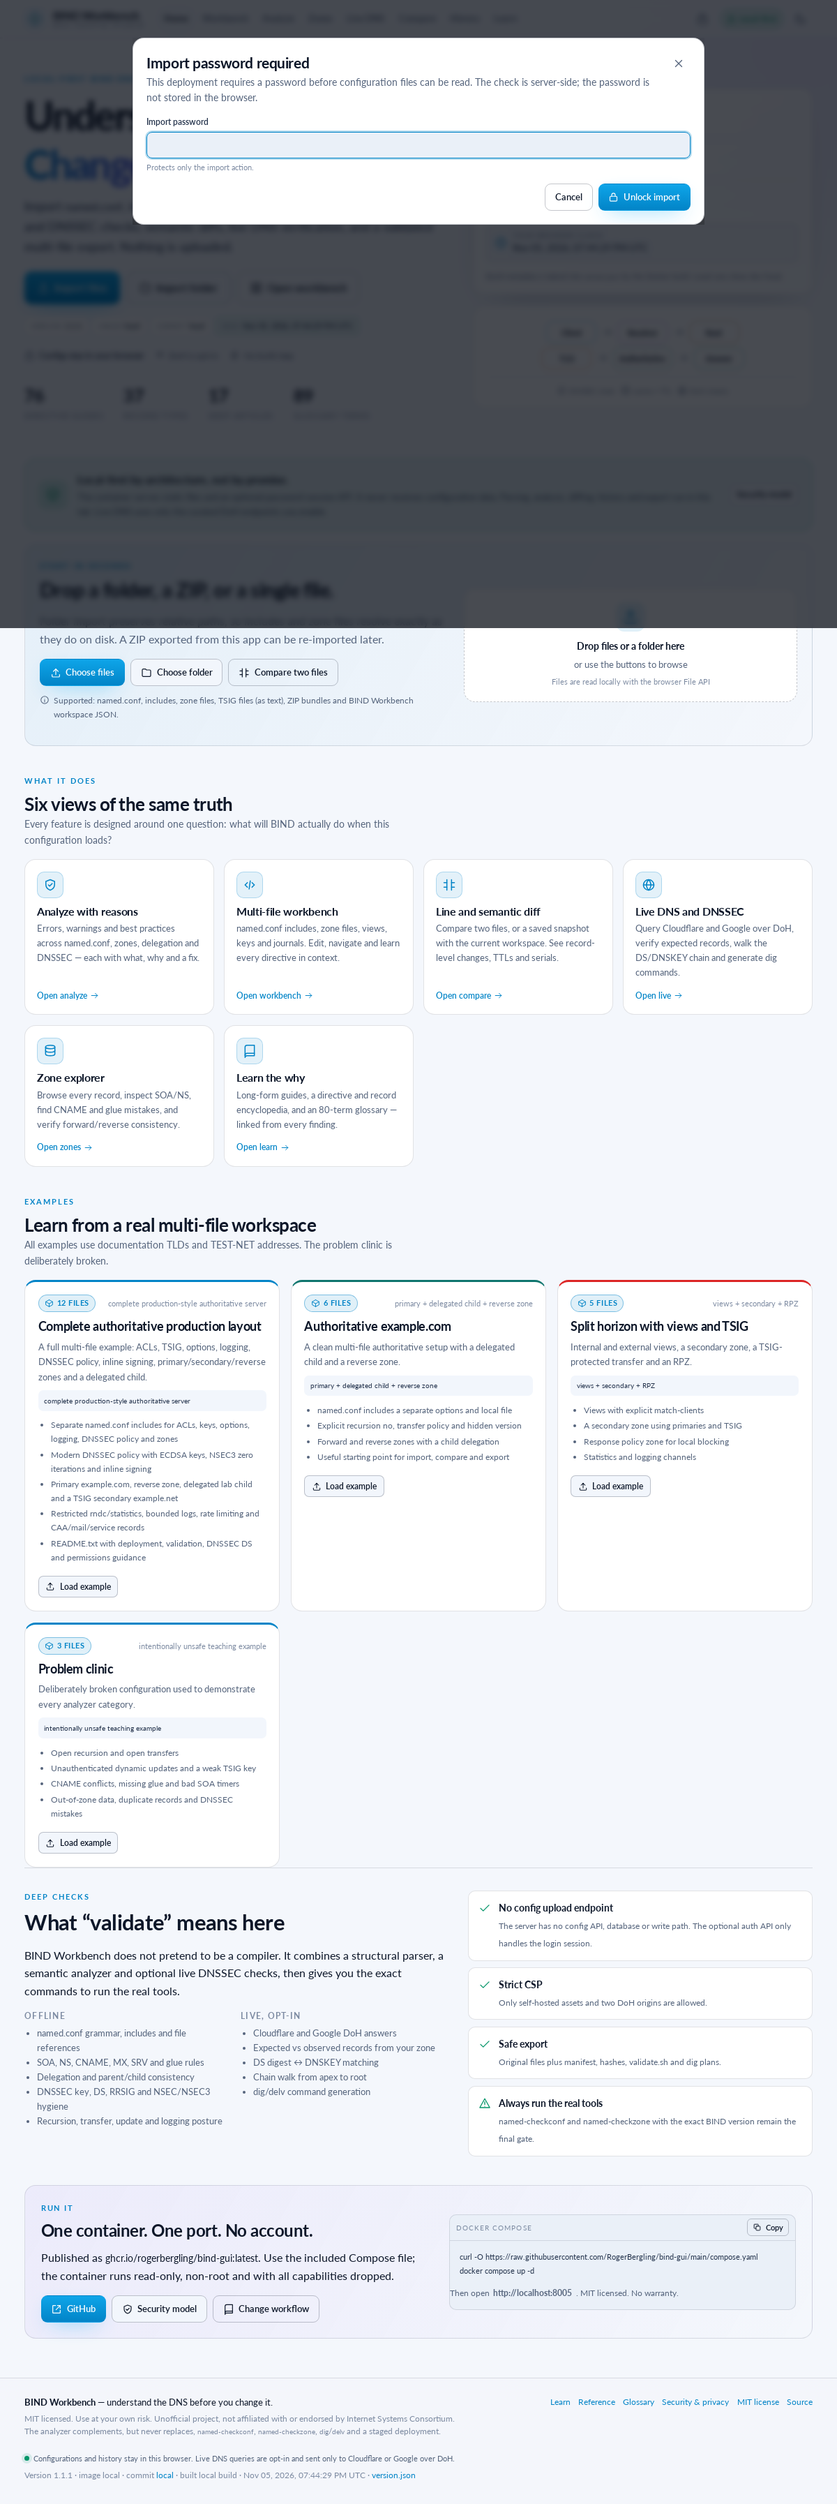
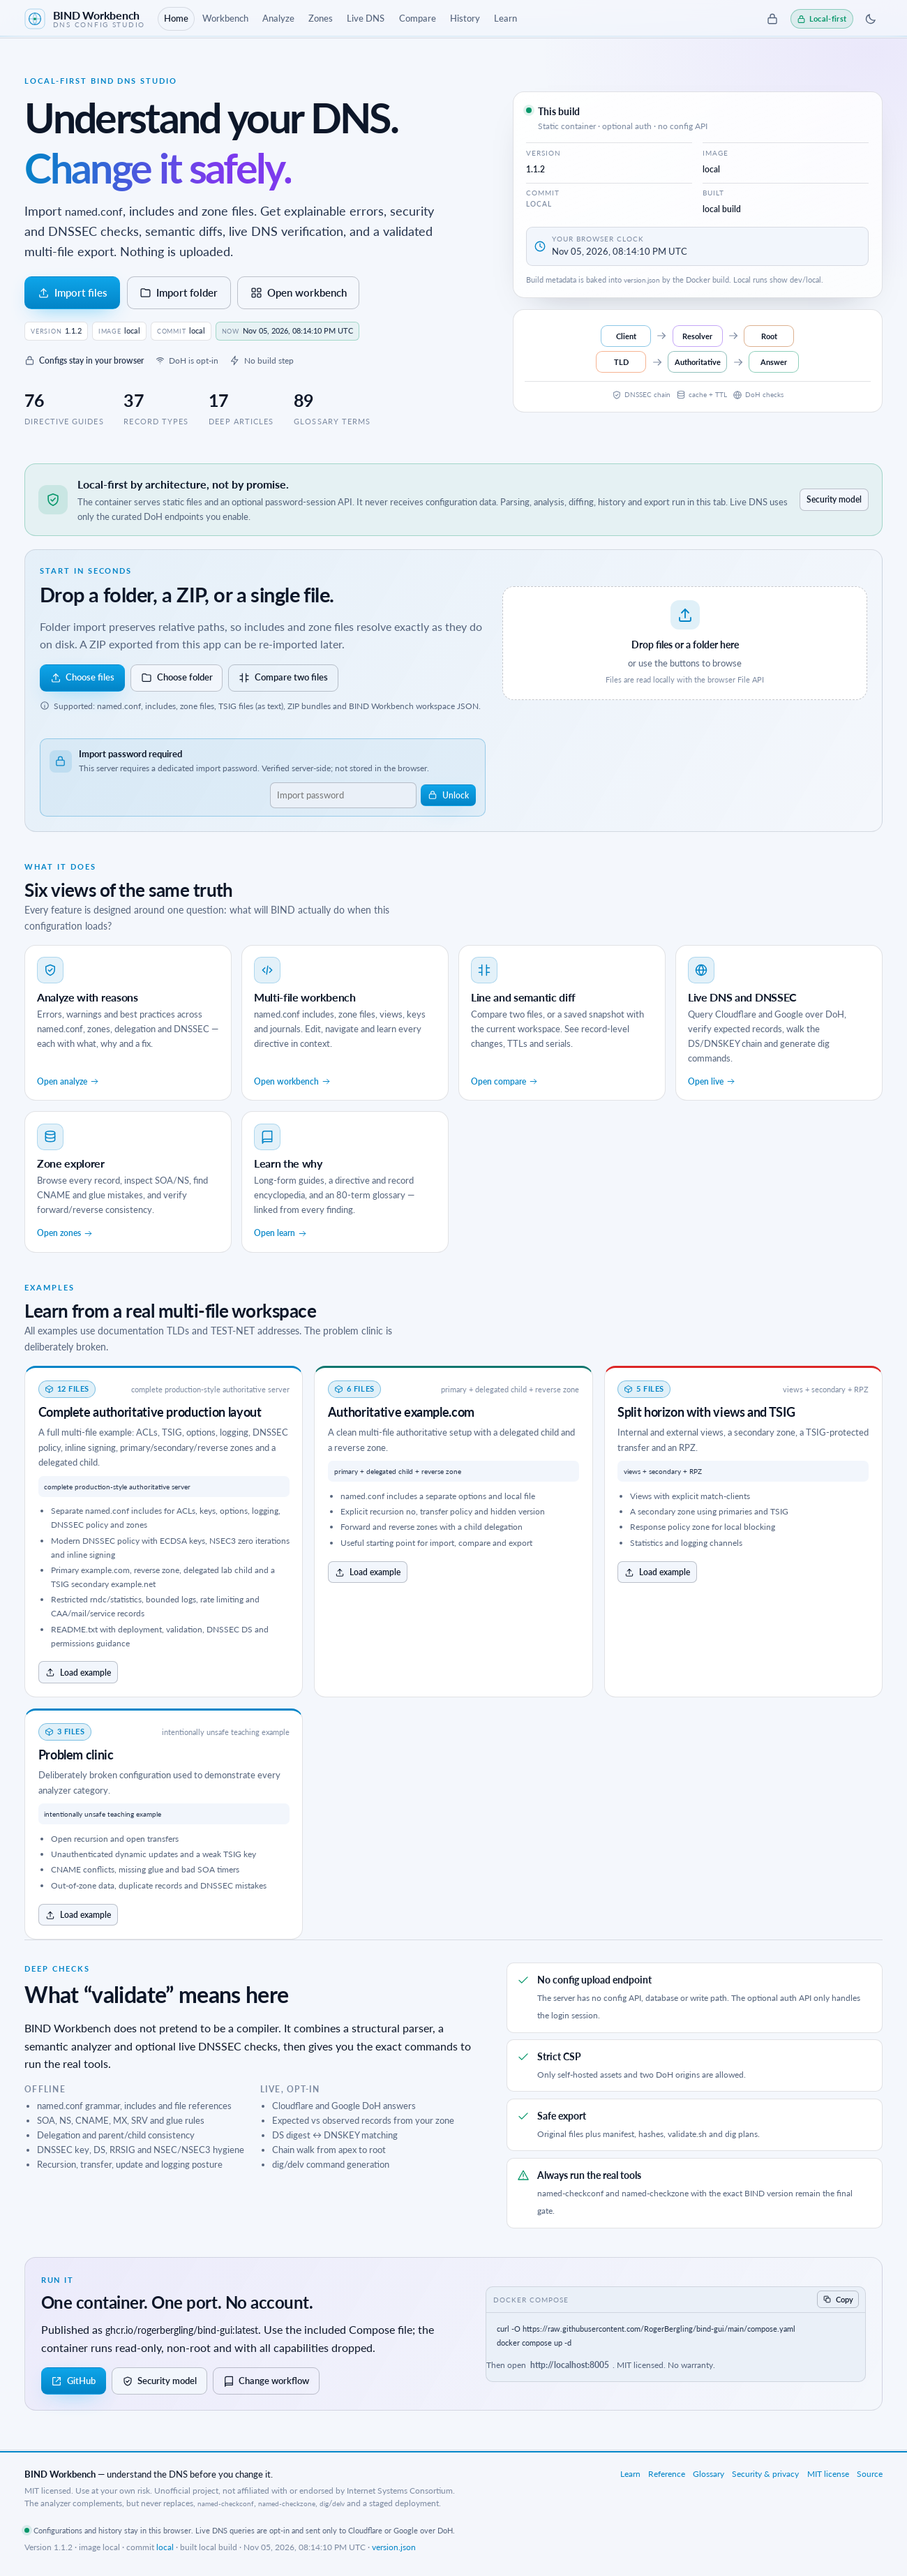
Show inline import password before file selection
Render the server-verified import password field directly on the Home, Workbench, Analyze, Zones and Compare import surfaces. Block file/folder/dropzone pickers until the tab is unlocked, keep the dialog as a fallback, show an unlocked state, and bump the release to 1.1.2.

diff --git a/public/assets/js/pages/import-ui.js b/public/assets/js/pages/import-ui.js
@@ -11,6 +11,7 @@ const UPLOAD_UNLOCK_KEY = 'bind-workbench:upload-unlocked';
 let uploadStatusPromise = null;
 let uploadUnlockPromise = null;
 let uploadUnlockedThisPage = false;
+let uploadAuthRequired = false;
 
 export async function getUploadStatus() {
   if (!uploadStatusPromise) {
@@ -45,6 +46,114 @@ export function clearUploadUnlock() {
     sessionStorage.removeItem(UPLOAD_UNLOCK_KEY);
   } catch {
     /* ignore */
+  }
+}
+
+async function verifyUploadPassword(password) {
+  try {
+    const response = await fetch('/api/upload-auth', {
+      method: 'POST',
+      credentials: 'same-origin',
+      cache: 'no-store',
+      headers: { 'X-Bind-Upload-Password': password },
+    });
+    let data = {};
+    try {
+      data = await response.json();
+    } catch {
+      /* keep the status-code message */
+    }
+    if (response.ok && data.ok) return { ok: true };
+    if (response.status === 429) return { ok: false, error: 'Too many attempts. Wait a minute and try again.' };
+    if (response.status === 401) return { ok: false, error: 'Invalid import password.' };
+    return { ok: false, error: data.error || `Import unlock failed (HTTP ${response.status}).` };
+  } catch {
+    return { ok: false, error: 'Could not reach the server to verify the import password.' };
+  }
+}
+
+function uploadGatePanel(status) {
+  if (hasUploadUnlock()) {
+    return `<div class="upload-gate-panel unlocked">
+      <div class="upload-gate-icon">${icon('check', 17)}</div>
+      <div class="upload-gate-copy"><strong>Import unlocked for this tab</strong><span>The password was verified. Lock the session or close the tab to require it again.</span></div>
+    </div>`;
+  }
+  return `<div class="upload-gate-panel">
+    <div class="upload-gate-icon">${icon('lock', 17)}</div>
+    <div class="upload-gate-copy">
+      <strong>Import password required</strong>
+      <span>${status.separatePassword ? 'This server requires a dedicated import password.' : 'This server uses the app password for the import check.'} Verified server-side; not stored in the browser.</span>
+    </div>
+    <div class="upload-gate-control">
+      <input class="upload-gate-input" type="password" autocomplete="current-password" spellcheck="false" placeholder="Import password" aria-label="Import password">
+      <button class="btn btn-primary btn-sm" type="button" data-upload-unlock>${icon('lock', 14)} Unlock</button>
+    </div>
+    <div class="upload-gate-error" role="alert" hidden></div>
+  </div>`;
+}
+
+function refreshUploadGatePanels() {
+  for (const panel of document.querySelectorAll('[data-upload-gate]')) {
+    if (!panel.dataset.required || panel.dataset.required !== 'true') continue;
+    panel.innerHTML = uploadGatePanel(JSON.parse(panel.dataset.gateStatus || '{}'));
+    wireUploadGatePanel(panel);
+  }
+}
+
+function wireUploadGatePanel(panel) {
+  const input = panel.querySelector('.upload-gate-input');
+  const button = panel.querySelector('[data-upload-unlock]');
+  const error = panel.querySelector('.upload-gate-error');
+  if (!input || !button) return;
+  const submit = async () => {
+    const password = input.value;
+    if (!password) {
+      error.textContent = 'Enter the import password.';
+      error.hidden = false;
+      input.focus();
+      return;
+    }
+    button.disabled = true;
+    button.textContent = 'Checking…';
+    const result = await verifyUploadPassword(password);
+    button.disabled = false;
+    button.innerHTML = `${icon('lock', 14)} Unlock`;
+    if (result.ok) {
+      rememberUploadUnlock();
+      refreshUploadGatePanels();
+      toast('Import unlocked for this tab.', 'ok');
+    } else {
+      error.textContent = result.error;
+      error.hidden = false;
+      input.select();
+    }
+  };
+  button.addEventListener('click', submit);
+  input.addEventListener('keydown', (event) => {
+    if (event.key === 'Enter') {
+      event.preventDefault();
+      submit();
+    }
+  });
+}
+
+export async function mountUploadGate(root = document) {
+  const panels = Array.from(root.querySelectorAll('[data-upload-gate]'));
+  if (!panels.length) return;
+  const status = await getUploadStatus();
+  uploadAuthRequired = Boolean(status?.required);
+  for (const panel of panels) {
+    panel.dataset.required = String(Boolean(status?.required));
+    panel.dataset.gateStatus = JSON.stringify(status || {});
+    if (!status?.required) {
+      panel.hidden = true;
+      panel.innerHTML = '';
+      continue;
+    }
+    panel.hidden = false;
+    panel.innerHTML = uploadGatePanel(status);
+    wireUploadGatePanel(panel);
   }
 }
 
@@ -93,35 +202,18 @@ export async function ensureUploadUnlocked() {
           errorNode.hidden = true;
           submit.disabled = true;
           submit.textContent = 'Checking…';
-          try {
-            const response = await fetch('/api/upload-auth', {
-              method: 'POST',
-              credentials: 'same-origin',
-              cache: 'no-store',
-              headers: { 'X-Bind-Upload-Password': password },
-            });
-            let data = {};
-            try {
-              data = await response.json();
-            } catch {
-              /* keep the status-code message */
-            }
-            if (response.ok && data.ok) {
-              rememberUploadUnlock();
-              toast('Import unlocked for this tab.', 'ok');
-              finish(true, close);
-              return;
-            }
-            if (response.status === 429) showError('Too many attempts. Wait a minute and try again.');
-            else if (response.status === 401) showError('Invalid import password.');
-            else showError(data.error || `Import unlock failed (HTTP ${response.status}).`);
-            input.select();
-          } catch {
-            showError('Could not reach the server to verify the import password.');
-          } finally {
-            submit.disabled = false;
-            submit.textContent = 'Unlock import';
+          const result = await verifyUploadPassword(password);
+          if (result.ok) {
+            rememberUploadUnlock();
+            refreshUploadGatePanels();
+            toast('Import unlocked for this tab.', 'ok');
+            finish(true, close);
+            return;
           }
+          showError(result.error);
+          input.select();
+          submit.disabled = false;
+          submit.textContent = 'Unlock import';
         };
         submit.addEventListener('click', attempt);
         input.addEventListener('keydown', (event) => {
@@ -232,6 +324,20 @@ export function loadSample(sampleId, onImported = null) {
   return workspace;
 }
 
+function focusUploadGate(root) {
+  const gate = root.querySelector('[data-upload-gate]');
+  if (!gate || gate.hidden) return false;
+  gate.scrollIntoView({ behavior: 'smooth', block: 'center' });
+  const input = gate.querySelector('.upload-gate-input');
+  if (input) setTimeout(() => input.focus(), 150);
+  toast('Enter the import password before choosing files.', 'warn');
+  return true;
+}
+
+function importBlocked(root) {
+  return uploadAuthRequired && !hasUploadUnlock() && focusUploadGate(root);
+}
+
 export function wireImportControls(root, options = {}) {
   let fileInput = root.querySelector('#import-file-input');
   let folderInput = root.querySelector('#import-folder-input');
@@ -269,12 +375,18 @@ export function wireImportControls(root, options = {}) {
   root.querySelectorAll('[data-import-files]').forEach((button) => {
     if (button.dataset.wired === 'true') return;
     button.dataset.wired = 'true';
-    button.addEventListener('click', () => fileInput.click());
+    button.addEventListener('click', () => {
+      if (importBlocked(root)) return;
+      fileInput.click();
+    });
   });
   root.querySelectorAll('[data-import-folder]').forEach((button) => {
     if (button.dataset.wired === 'true') return;
     button.dataset.wired = 'true';
-    button.addEventListener('click', () => folderInput.click());
+    button.addEventListener('click', () => {
+      if (importBlocked(root)) return;
+      folderInput.click();
+    });
   });
   root.querySelectorAll('[data-sample-id]').forEach((button) => {
     if (button.dataset.wired === 'true') return;
@@ -285,10 +397,14 @@ export function wireImportControls(root, options = {}) {
   root.querySelectorAll('[data-dropzone]').forEach((zone) => {
     if (zone.dataset.wired === 'true') return;
     zone.dataset.wired = 'true';
-    zone.addEventListener('click', () => fileInput.click());
+    zone.addEventListener('click', () => {
+      if (importBlocked(root)) return;
+      fileInput.click();
+    });
     zone.addEventListener('keydown', (event) => {
       if (event.key === 'Enter' || event.key === ' ') {
         event.preventDefault();
+        if (importBlocked(root)) return;
         fileInput.click();
       }
     });
@@ -307,12 +423,14 @@ export function wireImportControls(root, options = {}) {
     zone.addEventListener('drop', async (event) => {
       stop(event);
       zone.classList.remove('dragging');
+      if (importBlocked(root)) return;
       if (!(await ensureUploadUnlocked())) return;
       const files = await filesFromDataTransfer(event.dataTransfer);
       if (files.length) await handleImport(files, options);
     });
   });
 
+  mountUploadGate(root);
   return { fileInput, folderInput, importFiles: (files) => handleImport(files, options) };
 }
 

diff --git a/public/assets/js/pages/zones.js b/public/assets/js/pages/zones.js
@@ -13,7 +13,7 @@ import { wireImportControls } from './import-ui.js';
 export async function renderZones(view, param, query) {
   const workspace = getCurrentWorkspace();
   if (!workspace) {
-    view.innerHTML = `<div class="page-head"><div class="page-head-copy"><span class="eyebrow">Zones</span><h1>No zones loaded</h1><p class="page-lede">Import named.conf and its zone files, or drop a standalone master file. A zone-only workspace is parsed with an inferred origin.</p></div><div class="page-actions"><button class="btn btn-primary" type="button" data-import-files>${icon('upload', 16)} Import files</button><button class="btn" type="button" data-import-folder>${icon('folder', 16)} Import folder</button></div></div><div class="start-panel"><div class="start-copy"><h2>Bring the whole zone set</h2><p>Parent and child zones together let the analyzer check delegation NS consistency, glue and DS ↔ DNSKEY matching.</p></div><div class="dropzone" data-dropzone tabindex="0" role="button"><div class="dropzone-icon">${icon('database', 24)}</div><strong>Drop zones or a folder</strong><span>zone files, named.conf, ZIP</span></div></div>`;
+    view.innerHTML = `<div class="page-head"><div class="page-head-copy"><span class="eyebrow">Zones</span><h1>No zones loaded</h1><p class="page-lede">Import named.conf and its zone files, or drop a standalone master file. A zone-only workspace is parsed with an inferred origin.</p></div><div class="page-actions"><button class="btn btn-primary" type="button" data-import-files>${icon('upload', 16)} Import files</button><button class="btn" type="button" data-import-folder>${icon('folder', 16)} Import folder</button></div></div><div class="start-panel"><div class="start-copy"><h2>Bring the whole zone set</h2><p>Parent and child zones together let the analyzer check delegation NS consistency, glue and DS ↔ DNSKEY matching.</p></div><div class="dropzone" data-dropzone tabindex="0" role="button"><div class="dropzone-icon">${icon('database', 24)}</div><strong>Drop zones or a folder</strong><span>zone files, named.conf, ZIP</span></div><div data-upload-gate></div></div>`;
     wireImportControls(view, { navigate: true });
     return null;
   }

diff --git a/public/assets/css/app.css b/public/assets/css/app.css
@@ -998,3 +998,49 @@ dialog.modal::backdrop { background: rgba(2, 6, 15, .72); backdrop-filter: blur(
 .login-foot a { color: var(--muted); }
 .auth-lock { color: var(--muted); }
 .auth-lock:hover { color: var(--accent); }
+
+/* ---------- inline import password gate ---------- */
+.upload-gate-panel {
+  grid-column: 1 / -1;
+  display: flex;
+  align-items: center;
+  gap: .65rem;
+  flex-wrap: wrap;
+  padding: .7rem .8rem;
+  border: 1px solid color-mix(in srgb, var(--accent) 32%, transparent);
+  border-radius: 10px;
+  background: color-mix(in srgb, var(--accent) 6%, transparent);
+}
+.upload-gate-panel.unlocked {
+  border-color: color-mix(in srgb, var(--ok) 32%, transparent);
+  background: color-mix(in srgb, var(--ok) 6%, transparent);
+}
+.upload-gate-icon {
+  width: 32px; height: 32px;
+  display: grid; place-items: center;
+  border-radius: 8px;
+  color: var(--accent);
+  background: color-mix(in srgb, var(--accent) 12%, transparent);
+  flex: 0 0 auto;
+}
+.upload-gate-panel.unlocked .upload-gate-icon { color: var(--ok); background: color-mix(in srgb, var(--ok) 12%, transparent); }
+.upload-gate-copy { flex: 1 1 280px; min-width: 0; }
+.upload-gate-copy strong { display: block; font-size: .84rem; }
+.upload-gate-copy span { display: block; color: var(--muted); font-size: .74rem; }
+.upload-gate-control { display: flex; gap: .35rem; align-items: center; margin-left: auto; flex: 0 1 auto; }
+.upload-gate-input {
+  min-width: 210px;
+  background: var(--bg-soft);
+  border: 1px solid var(--line-strong);
+  border-radius: 7px;
+  padding: .42rem .55rem;
+  color: var(--text);
+  font: inherit;
+  font-size: .82rem;
+}
+.upload-gate-input:focus { border-color: var(--accent); outline: 2px solid color-mix(in srgb, var(--accent) 30%, transparent); }
+.upload-gate-error { flex-basis: 100%; color: var(--danger); font-size: .76rem; }
+@media (max-width: 620px) {
+  .upload-gate-control { width: 100%; margin-left: 0; }
+  .upload-gate-input { flex: 1; min-width: 0; }
+}

diff --git a/public/assets/js/pages/analyze.js b/public/assets/js/pages/analyze.js
@@ -14,7 +14,7 @@ export async function renderAnalyze(view, query) {
   const workspace = getCurrentWorkspace();
   if (!workspace) {
     view.innerHTML = `<div class="page-head"><div class="page-head-copy"><span class="eyebrow">Analyze</span><h1>No workspace to analyze</h1><p class="page-lede">Import named.conf and zone files first. Analysis runs locally and links every finding to the exact file and line.</p></div><div class="page-actions"><button class="btn btn-primary" type="button" data-import-files>${icon('upload', 16)} Import files</button><button class="btn" type="button" data-import-folder>${icon('folder', 16)} Import folder</button></div></div>
-    <div class="start-panel"><div class="start-copy"><h2>Bring the whole include tree</h2><p>For delegation and DNSSEC checks, import the parent and child zones together. Missing files are reported, not guessed.</p></div><div class="dropzone" data-dropzone tabindex="0" role="button"><div class="dropzone-icon">${icon('upload', 24)}</div><strong>Drop files or a folder</strong><span>named.conf, includes, zones, ZIP</span></div></div>`;
+    <div class="start-panel"><div class="start-copy"><h2>Bring the whole include tree</h2><p>For delegation and DNSSEC checks, import the parent and child zones together. Missing files are reported, not guessed.</p></div><div class="dropzone" data-dropzone tabindex="0" role="button"><div class="dropzone-icon">${icon('upload', 24)}</div><strong>Drop files or a folder</strong><span>named.conf, includes, zones, ZIP</span></div><div data-upload-gate></div></div>`;
     wireImportControls(view, { navigate: true });
     return null;
   }

diff --git a/public/assets/js/pages/compare.js b/public/assets/js/pages/compare.js
@@ -7,7 +7,7 @@ import { parseZone } from '../dns/zone-parser.js';
 import { getCurrentWorkspace, getHistory, getSnapshot } from '../storage.js';
 import { icon, pill, renderDiff, toast, wireCopyButtons } from '../ui.js';
 import { escapeHTML, formatDateTime, formatNumber, readFileText } from '../utils.js';
-import { ensureUploadUnlocked } from './import-ui.js';
+import { ensureUploadUnlocked, mountUploadGate } from './import-ui.js';
 
 export async function renderCompare(view, query) {
   const workspace = getCurrentWorkspace();
@@ -43,6 +43,7 @@ export async function renderCompare(view, query) {
         <label class="field"><span>Content</span><textarea id="right-text" class="compare-editor" spellcheck="false" placeholder="Paste the other version here…"></textarea></label>
       </article>
     </div>
+    <div data-upload-gate></div>
     <div class="compare-actions"><button class="btn btn-primary" type="button" id="run-compare">${icon('diff', 16)} Compare files</button><button class="btn btn-ghost" type="button" id="swap-compare">${icon('refresh', 15)} Swap</button><span class="muted-note">Nothing is uploaded. Large files are diffed in the browser.</span></div>
     <div id="compare-output" class="compare-output">${comparison ? renderComparison(comparison) : `<div class="empty-panel"><h2>No comparison yet</h2><p>Load two files or paste them, then compare. If both are zone files, the app also compares records semantically.</p></div>`}</div>
   </section>
@@ -167,6 +168,7 @@ export async function renderCompare(view, query) {
     }
   }
 
+  mountUploadGate(view);
   return null;
 }
 

diff --git a/public/assets/js/pages/workbench.js b/public/assets/js/pages/workbench.js
@@ -456,6 +456,7 @@ export async function renderWorkbench(view, param, query) {
         <a class="btn btn-ghost" href="#/analyze">${icon('shield', 16)} Analyze</a>
       </div>
     </div>
+    <div data-upload-gate></div>
     <div class="workbench-shell">
       <aside class="file-rail" aria-label="Workspace files">
         <div class="file-rail-head">
@@ -789,6 +790,7 @@ function workspaceEmptyState(title = 'No workspace loaded', body = 'Import named
   <div class="start-panel">
     <div class="start-copy"><span class="eyebrow">Start here</span><h2>Drop a folder or a ZIP</h2><p>Folder import preserves paths so includes and zone files resolve correctly. A single named.conf works too; unresolved includes are reported.</p><div class="start-actions"><button class="btn btn-primary" type="button" data-import-files>${icon('upload', 16)} Choose files</button><button class="btn" type="button" data-import-folder>${icon('folder', 16)} Choose folder</button></div><p class="muted-note">${icon('info', 14)} Files are read with the browser File API. Nothing is uploaded.</p></div>
     <div class="dropzone" data-dropzone tabindex="0" role="button" aria-label="Drop BIND configuration files here"><div class="dropzone-icon">${icon('upload', 24)}</div><strong>Drop files here</strong><span>named.conf, zones, includes, ZIP</span><small>Local-first</small></div>
+    <div data-upload-gate></div>
   </div>`;
 }
 

diff --git a/public/assets/js/pages/home.js b/public/assets/js/pages/home.js
@@ -162,6 +162,7 @@ export async function renderHome(view) {
         <span>or use the buttons to browse</span>
         <small>Files are read locally with the browser File API</small>
       </div>
+      <div data-upload-gate></div>
     </section>
 
     <section class="section-block">

diff --git a/README.md b/README.md
@@ -80,7 +80,7 @@ A dedicated password can gate the import workflow even when the app itself is op
 BIND_WORKBENCH_UPLOAD_PASSWORD=another-long-random-value
 ```
 
-With this set, the first file/folder/ZIP import in a tab opens an **Import password** dialog. The password is checked server-side against `POST /api/upload-auth`; it is not stored in the browser. A per-tab unlocked flag avoids asking again until the tab closes or the session is locked.
+With this set, the import surfaces show an **Import password** field on the page, before you choose files. The password is checked server-side against `POST /api/upload-auth`; it is not stored in the browser. A per-tab unlocked flag avoids asking again until the tab closes or the session is locked. Header/Compare imports use the same password dialog as a fallback when the inline field is not visible.
 
 - If `BIND_WORKBENCH_UPLOAD_PASSWORD` is empty, it falls back to `BIND_WORKBENCH_PASSWORD` when that is set.
 - If both are empty, imports run without a password.
